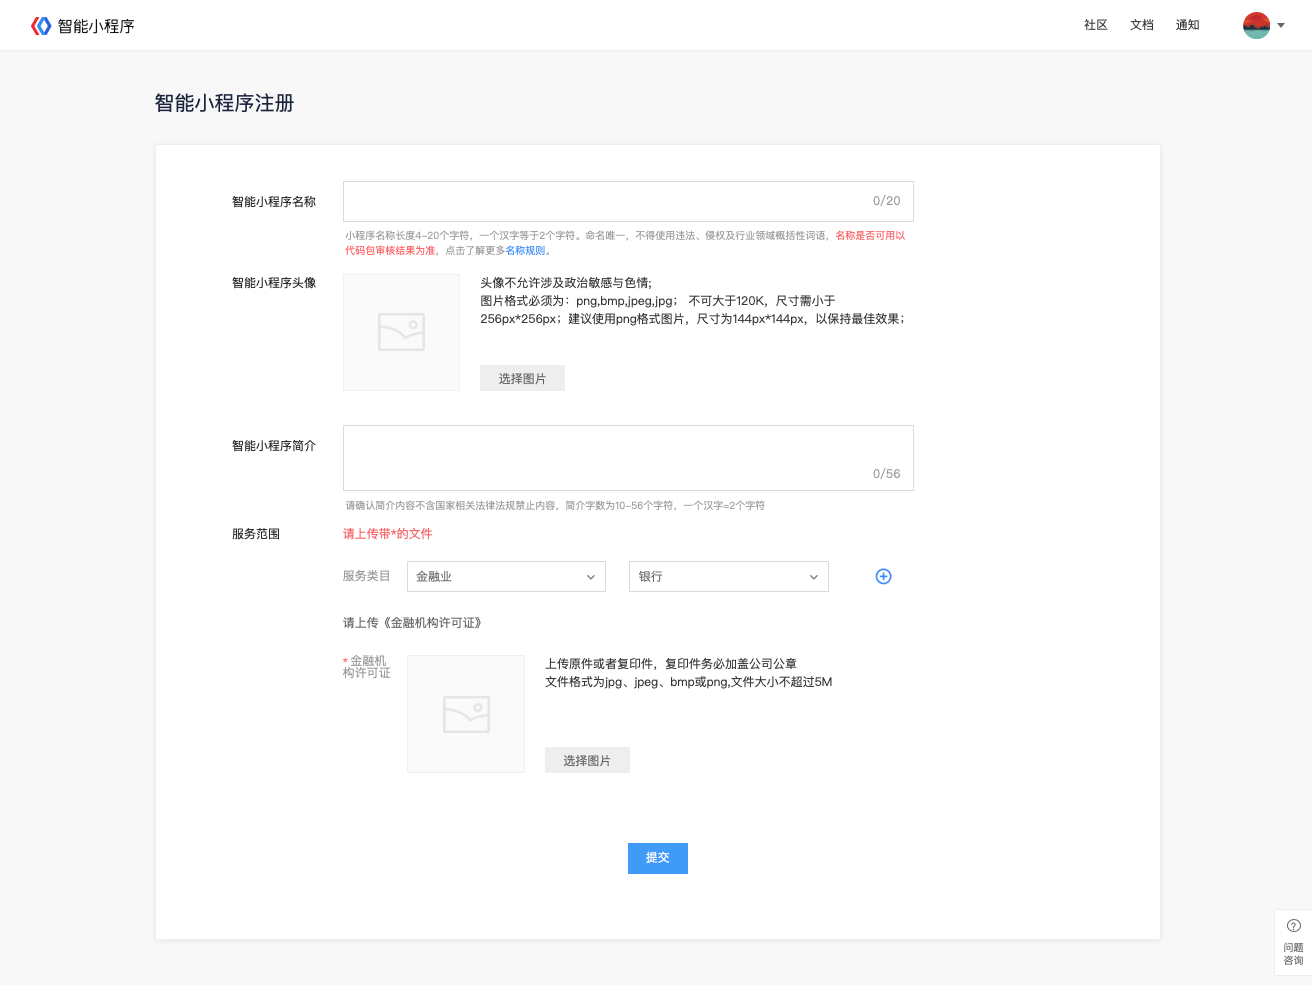
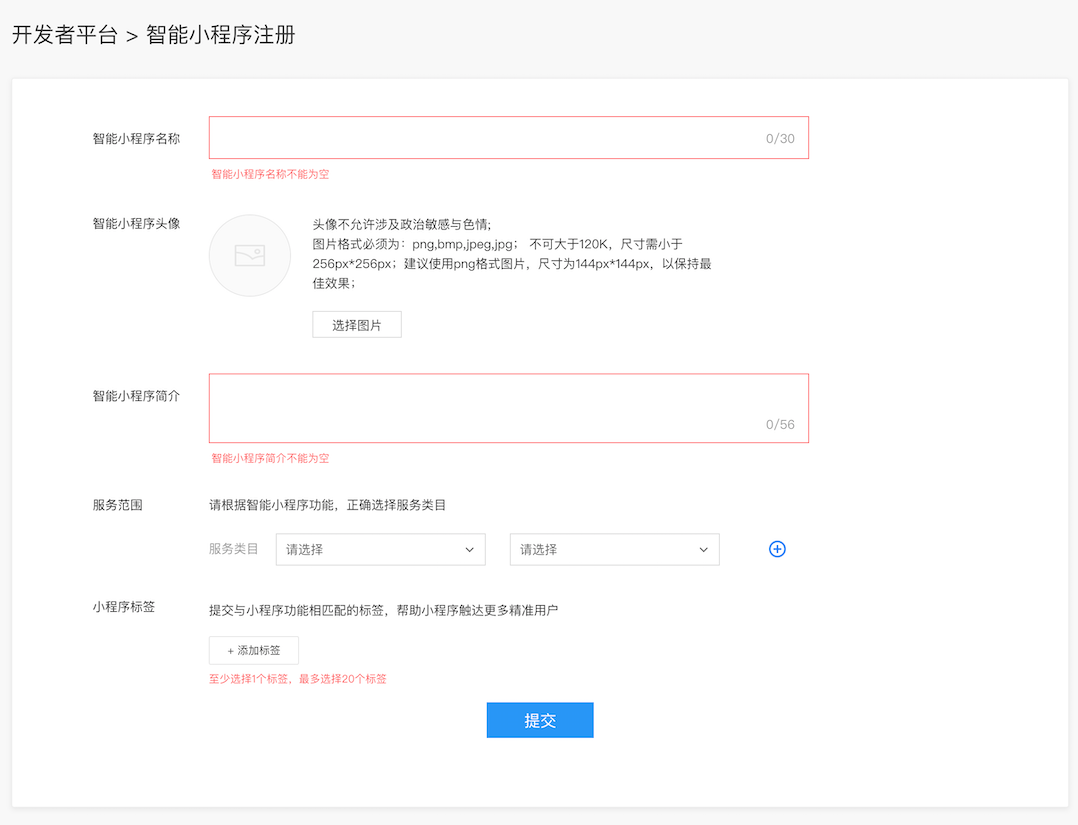
robots协议

diff --git a/source/_posts/introduction/rank.md b/source/_posts/introduction/rank.md
@@ -257,7 +257,48 @@ Sitemap 示例:
  ![Alt text](../../img/introduction/rank/21.png)
  ![Alt text](../../img/introduction/rank/22.png)
  
+## robots协议介绍
 
+开发者可通过robots文件声明小程序中不想被搜索引擎收录的部分或者指定搜索引擎只收录特定的部分。仅当您的小程序中包含不希望被视频搜索引擎收录的内容时，才需要使用robots.txt文件。
+
+该文件中的记录通常以一行或多行User-agent开始，后面加上若干Disallow和Allow行,详细情况如下：
+
+
+* **User-agent:**
+
+    该项的值用于描述搜索引擎robot的名字。在`"robots.txt"`文件中，如果有多条User-agent记录说明有多个robot会受到`"robots.txt"`的限制，对该文件来说，至少要有一条User-agent记录。如果该项的值设为`*`，则对任何robot均有效，在`"robots.txt"`文件中，`"User-agent:*"`这样的记录只能有一条。如果在`"robots.txt"`文件中，加入`"User-agent:SomeBot"`和若干Disallow、Allow行，那么名为`"SomeBot"`只受到`"User-agent:SomeBot"`后面的 Disallow和Allow行的限制。
+
+* **Disallow:**
+
+    该项的值用于描述不希望被访问的一组URL，这个值可以是一条完整的路径，也可以是路径的非空前缀，以Disallow项的值开头的URL不会被 robot访问。例如`"Disallow:/help"`禁止robot访问/help.html、/helpabc.html、/help/index.html，而`"Disallow:/help/"`则允许robot访问/help.html、/helpabc.html，不能访问/help/index.html。`"Disallow:"`说明允许robot访问该网站的所有url，在`"/robots.txt"`文件中，至少要有一条Disallow记录。如果`"/robots.txt"`不存在或者为空文件，则对于所有的搜索引擎robot，该网站都是开放的。
+
+
+* **Allow:**
+
+    该项的值用于描述希望被访问的一组URL，与Disallow项相似，这个值可以是一条完整的路径，也可以是路径的前缀，以Allow项的值开头的URL 是允许robot访问的。
+
+    例如`"Allow:/hibaidu"`允许robot访问/hibaidu.htm、/hibaiducom.html、/hibaidu/com.html。一个网站的所有URL默认是Allow的，所以Allow通常与Disallow搭配使用，实现允许访问一部分网页同时禁止访问其它所有URL的功能。
+
+* **使用"*"and"$"：** 
+
+    百度spider支持是用以下两个通配符来模糊匹配url。
+    "*" 匹配0或多个任意字符
+    "$" 匹配行结束符
+
+
+
+|举例 | 用法 | 
+|---|---|
+|禁止所有搜索引擎访问小程序中的任何部分</p> | `User-agent: Disallow: / `| 
+| 允许所有的robot访问| `User-agent: * Allow: / ` | 
+| 仅禁止Baiduspider访问您的小程序| `User-agent: Baiduspider Disallow: / ` | 
+|仅允许Baiduspider访问您的小程序 |  `User-agent: Baiduspider Allow: / User-agent:* Disallow: /` | 
+|禁止spider访问特定目录 |` User-agent: * Disallow: /cgi-bin/ Disallow: /tmp/ Disallow: /~joe/ `| 
+| 允许访问特定目录中的部分url|  `User-agent: * Allow: /cgi-bin/see Allow: /tmp/hi Allow: /~joe/look Disallow: /cgi-bin/ Disallow: /tmp/ Disallow: /~joe/ `| 
+| 禁止Baiduspider抓取小程序中所有图片|  `User-agent: Baiduspider Disallow: /*.jpg$ Disallow: /*.jpeg$ Disallow: /*.gif$ Disallow: /*.png$ Disallow: /*.bmp$`| 
+       
+
+>百度会严格遵守robots的相关协议，请注意区分您不想被抓取或收录的目录的大小写，百度会对robots中所写的文件和您不想被抓取和收录的目录做精确匹配，否则robots协议无法生效。
 ## 搜索流量接入FAQ
 
 Q：接入自然搜索结果前，有哪些事情是必须提前完成的？

diff --git a/source/_posts/introduction/accessfeed.md b/source/_posts/introduction/accessfeed.md
@@ -30,7 +30,7 @@ sidebar: accessfeed
 
 ![图片](../../img/introduction/auditing/图4.png) 
 
-在您的小程序尚未发布前，您也可以提前通过阅读“[开发者文档](http://baidu.com/)”以及“[信息流投放说明](http://baidu.com/)”全面了解信息流流量的玩法及素材提交管理流程。
+在您的小程序尚未发布前，您也可以提前通过阅读“[信息流资源](https://smartprogram.baidu.com/docs/develop/serverapi/open_feed/#信息流物料提交简介/)”以及“[信息流流量说明](https://smartprogram.baidu.com/docs/introduction/feed/)”全面了解信息流流量的玩法及素材提交管理流程。
 
  
 
@@ -72,13 +72,13 @@ sidebar: accessfeed
 
 **方式1-链接文件提交（sitemap提交）**
 
-提交原理说明：资源Sitemap是小程序结构化资源url列表。开发者需要将小程序落地页信息按[规范](111)整理成标题、正文 、图片等结构化信息；百度Spider会根据上次更新时间、更新频率等信息对资源数据进行提取，经过审核最终投放到feed中进行分发，为小程序带来巨大的流量。 
+提交原理说明：资源Sitemap是小程序结构化资源url列表。开发者需要将小程序落地页信息按[信息流素材审核规范](https://smartprogram.baidu.com/docs/introduction/auditing_info/)整理成标题、正文 、图片等结构化信息；百度Spider会根据上次更新时间、更新频率等信息对资源数据进行提取，经过审核最终投放到feed中进行分发，为小程序带来巨大的流量。 
 
  
 
-方法1：接口提交，详见[开发者文档](111)；
+方法1：接口提交，详见[开发者文档](https://smartprogram.baidu.com/docs/develop/serverapi/open_feed/)；
 
-方法2：B端连接文件提交，如下图；
+方法2：B端链接文件提交，如下图；
 
  
 

diff --git a/source/_posts/introduction/register_consummate.md b/source/_posts/introduction/register_consummate.md
@@ -25,7 +25,7 @@ sidebar: register_consummate
 
 
 
-填写智能小程序名称、简介、上传头像并选择服务范围。如果选择为特殊行业，还需根据界面提示提交相应资质，审核预计需要2个工作日完成，在此期间不会影响您进行小程序开发。
+填写智能小程序名称、简介、标签、上传头像并选择服务范围。如果选择为特殊行业，还需根据界面提示提交相应资质，审核预计需要2个工作日完成，在此期间不会影响您进行小程序开发。
 ![图片](../../img/introduction/register/p16.png)
 
 
